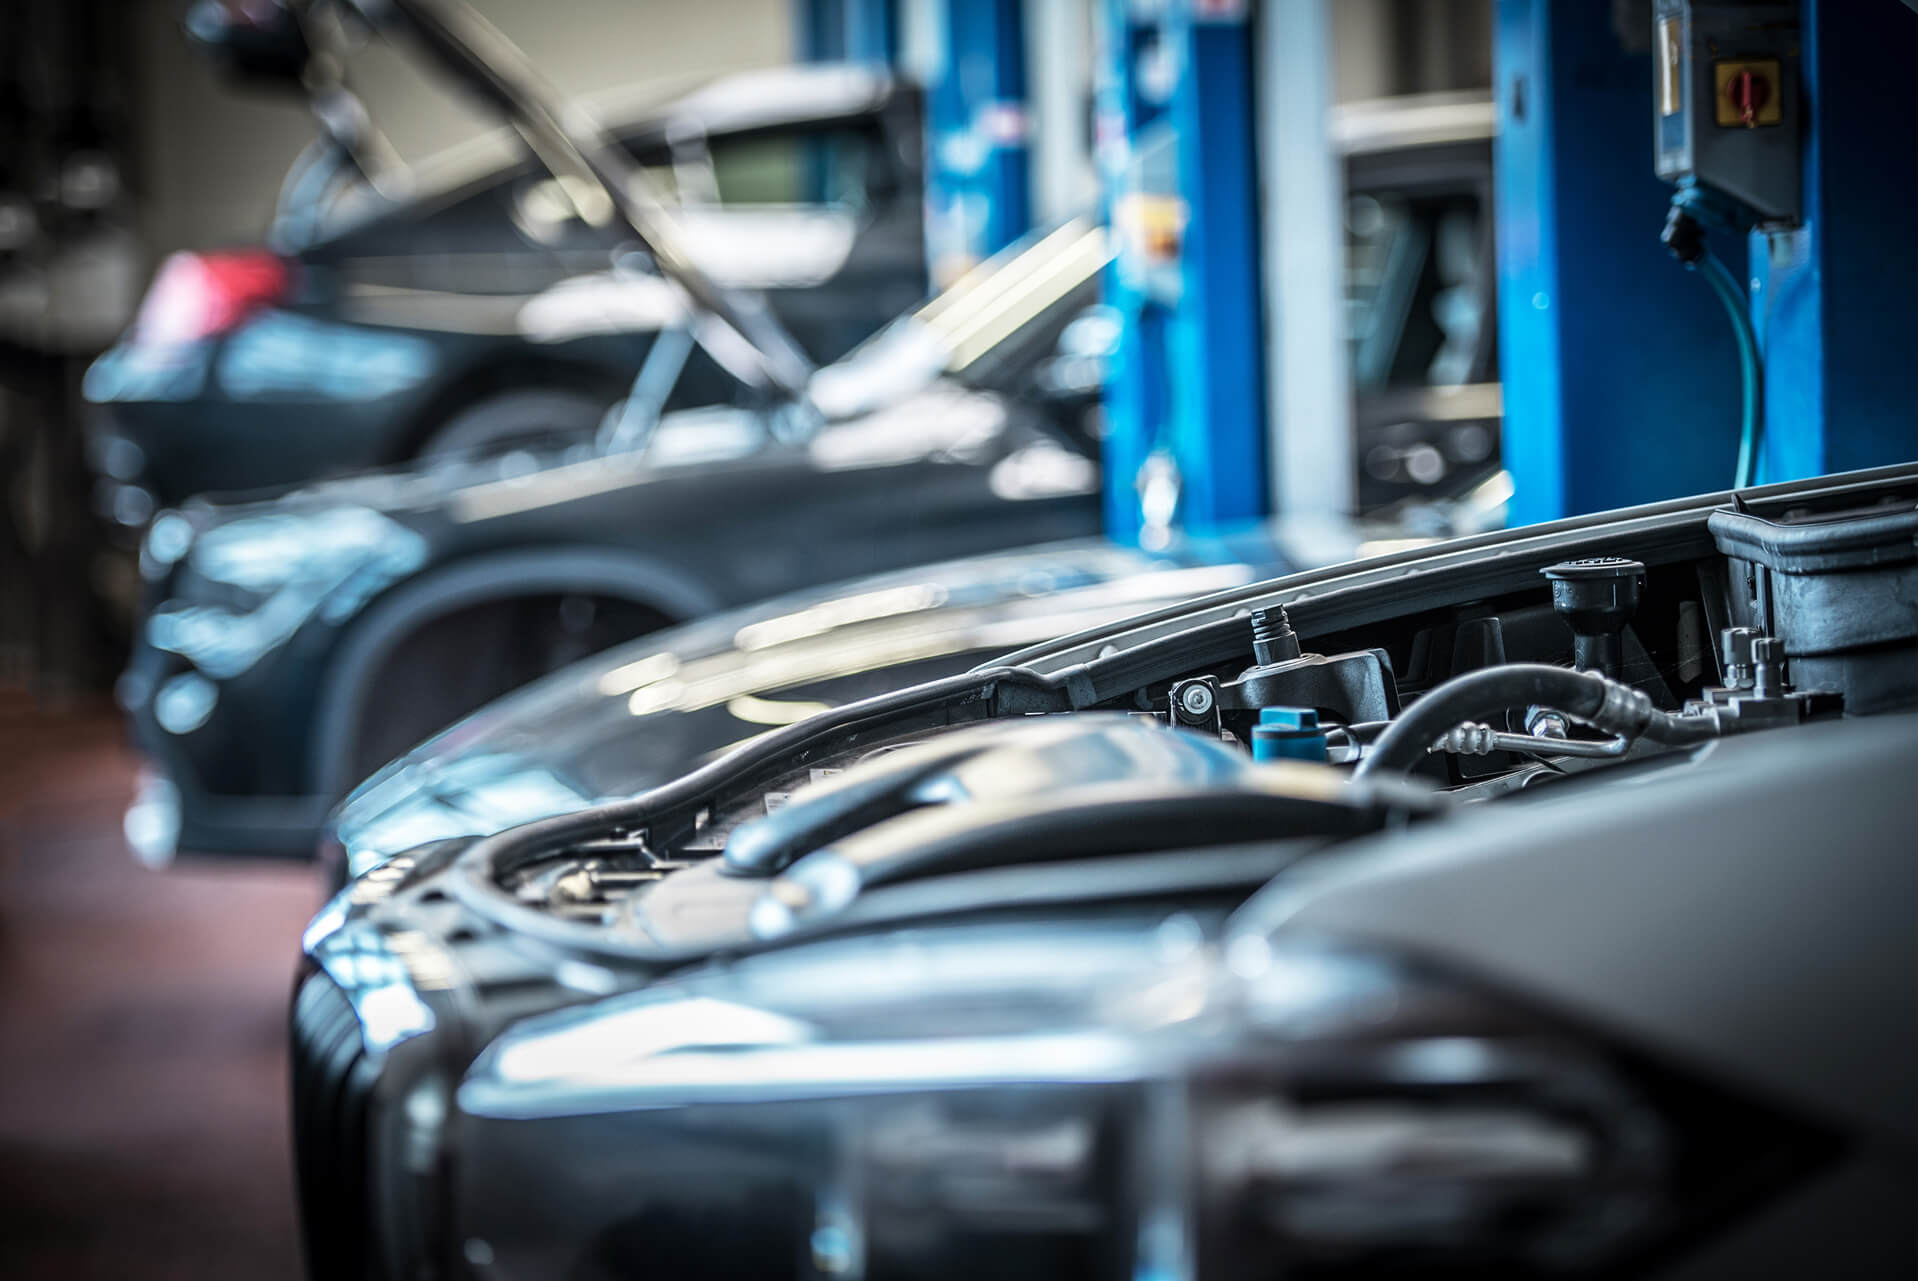
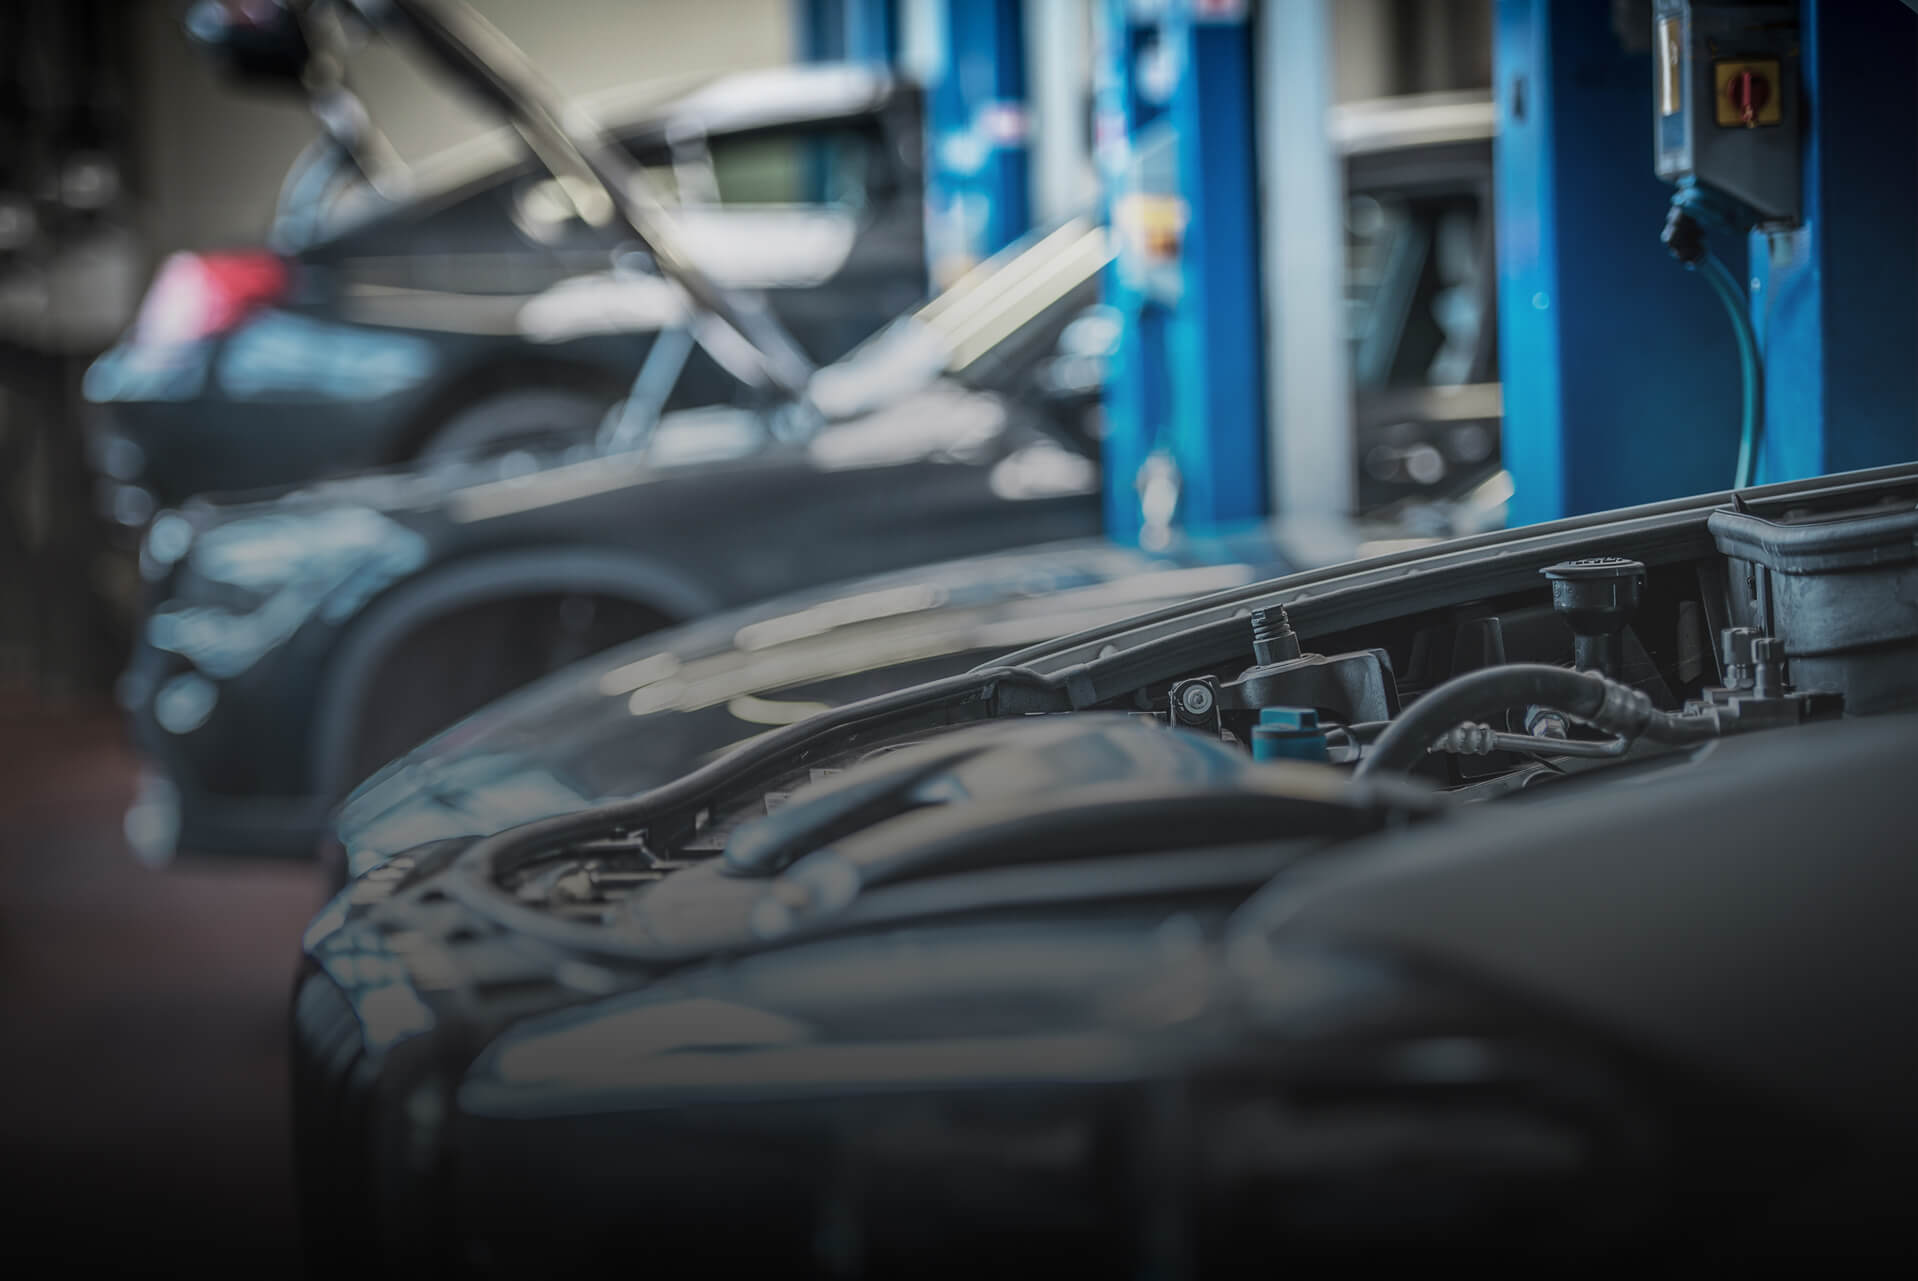
sait v3 bg fix

diff --git a/_src/static/style/block/v3/_body.scss b/_src/static/style/block/v3/_body.scss
@@ -2,23 +2,21 @@
   &--has-bg {
     position: relative;
     background: #000 top center no-repeat url("../img/background/car-auto-service-v3.jpg");
+    background-size: 100%;
 
     &::after {
       content: "";
-      position: absolute;
+      position: fixed;
       top: 0;
       left: 0;
       right: 0;
       bottom: 0;
       height: 100%;
       background: #111C2CD9;
-      background-size: 100%;
     }
 
     > * {
       z-index: 1;
     }
   }
-
-
 }
